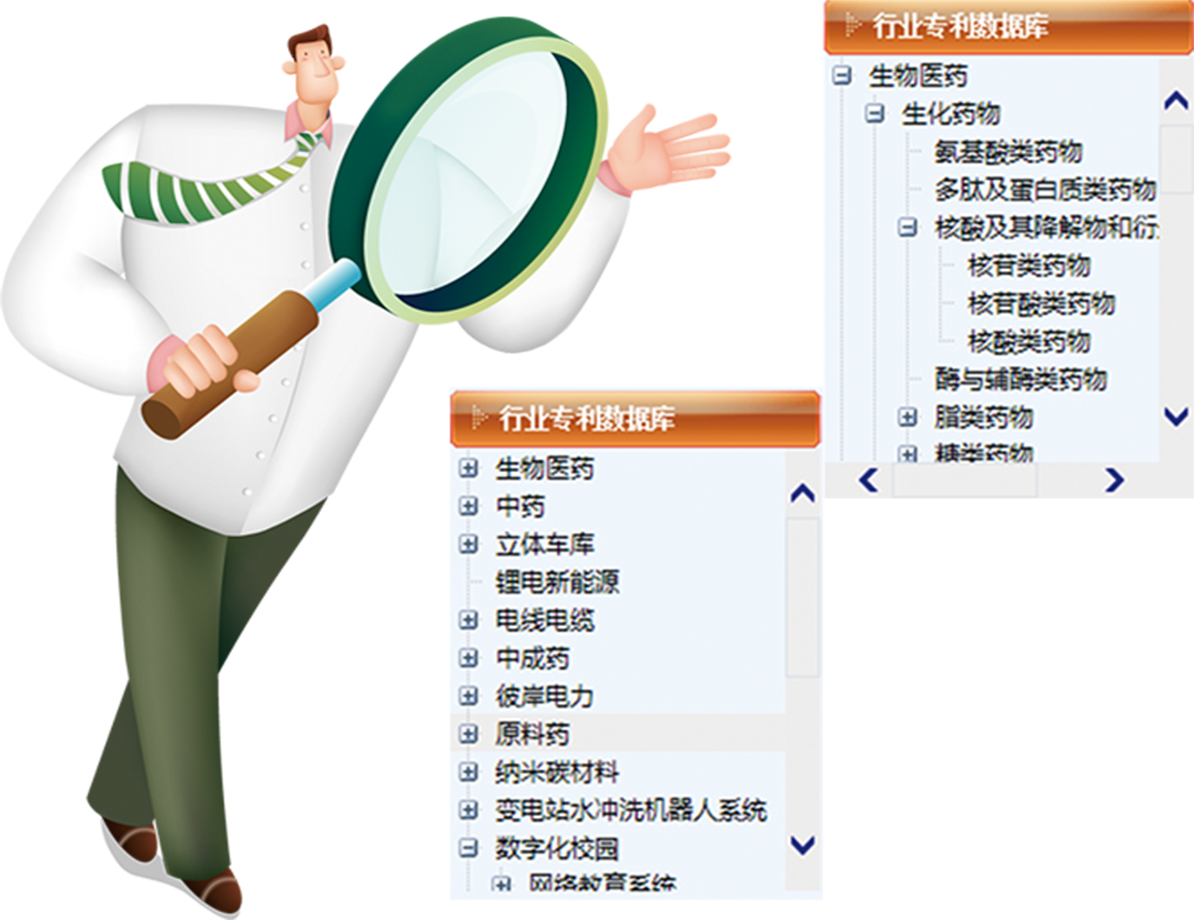
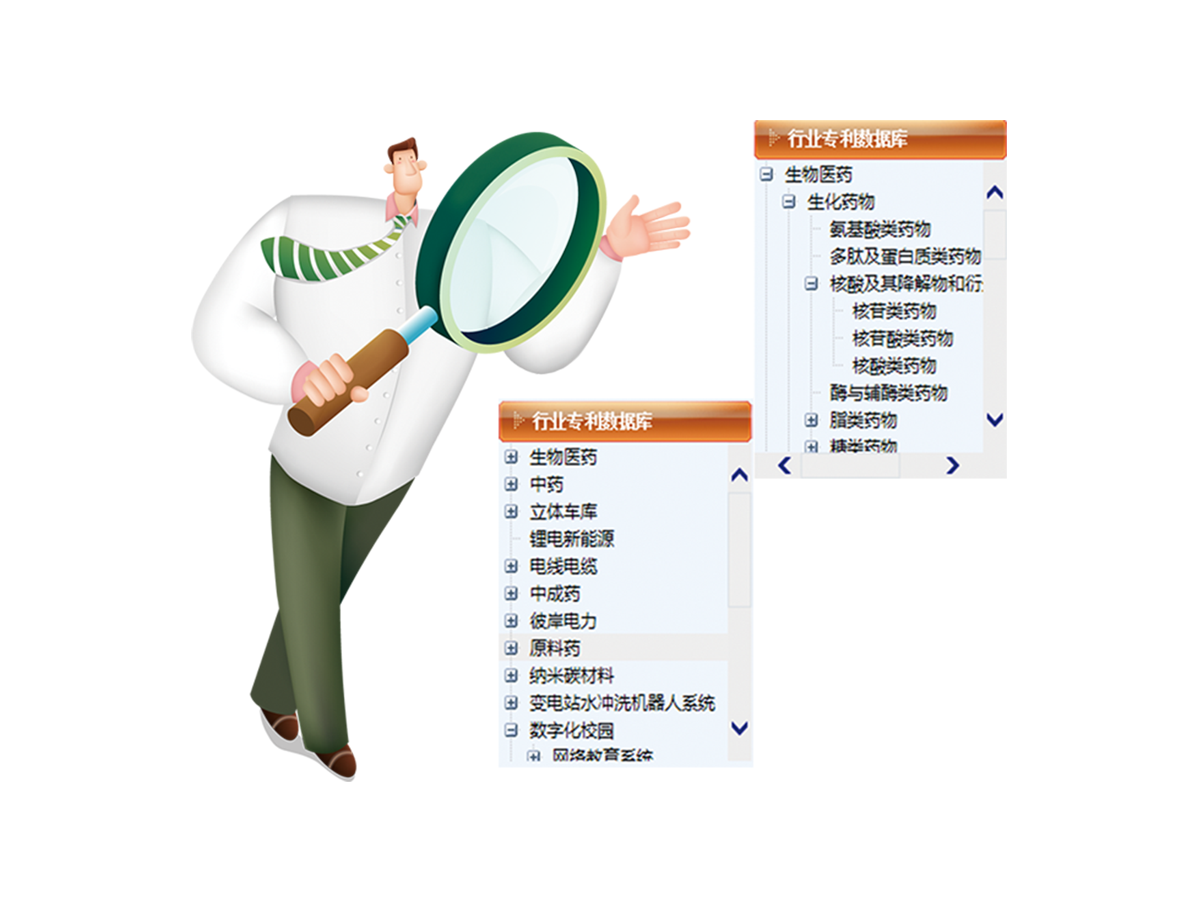
修改图片位置和添加图标

diff --git a/ant-motion-dva-cli-example-2.0/src/routes/Home/Content1.jsx b/ant-motion-dva-cli-example-2.0/src/routes/Home/Content1.jsx
@@ -20,7 +20,9 @@ class Content extends React.Component {
       key={i}
       id={`${this.props.id}-block${i}`}
     >
-      
+    <span>
+        <img src={item.img} width="100%" />
+      </span>
       <h2>{item.title}</h2>
       <p>{item.content}</p>
     </li>);
@@ -30,10 +32,10 @@ class Content extends React.Component {
     const props = { ...this.props };
     const isMode = props.isMode;
     const dataSource = [
-      { img: '', title: '委托方式', content: '当面受理、网上受理、传真受理、委托受理等。' },
-      { img: '', title: '成果鉴定', content: '为科技工作者、大专院校、企业及个人提供结题的查新检索。' },
-      { img: '', title: '科技（专利）奖项评审检索', content: ' 根据《专利奖项评价指标》及《科技奖项评价指标》，针对奖项的具体要求出具检索分析报告。' },
-      { img: '', title: '科技计划，立项查新', content: ' 国家863计划、973计划、科技攻关计划、软科学计划、火炬计划、国际合作计划、重点新产品计划、中小企业创新基金等各级政府部门立项项目。' },
+      { img: 'https://zos.alipayobjects.com/rmsportal/ScHBSdwpTkAHZkJ.png', title: '委托方式', content: '当面受理、网上受理、传真受理、委托受理等。' },
+      { img: 'https://zos.alipayobjects.com/rmsportal/UsUmoBRyLvkIQeO.png', title: '成果鉴定', content: '为科技工作者、大专院校、企业及个人提供结题的查新检索。' },
+      { img: 'https://zos.alipayobjects.com/rmsportal/ipwaQLBLflRfUrg.png', title: '科技（专利）奖项评审检索', content: ' 根据《专利奖项评价指标》及《科技奖项评价指标》，针对奖项的具体要求出具检索分析报告。' },
+      { img: 'https://zos.alipayobjects.com/rmsportal/YPMsLQuCEXtuEkmXTTdk.png', title: '科技计划，立项查新', content: ' 国家863计划、973计划、科技攻关计划、软科学计划、火炬计划、国际合作计划、重点新产品计划、中小企业创新基金等各级政府部门立项项目。' },
     ];
     const ulChildren = dataSource.map(this.getBlockChildren);
     delete props.isMode;
@@ -56,6 +58,7 @@ class Content extends React.Component {
           >
            <h1
               key="h1"
+              
               id={`${props.id}-title`}
             >
               专利检索、科技查新

diff --git a/ant-motion-dva-cli-example-2.0/src/routes/Home/index.jsx b/ant-motion-dva-cli-example-2.0/src/routes/Home/index.jsx
@@ -45,9 +45,9 @@ export default class Home extends React.Component {
     const children = [
       <Nav id="nav_0_0" key="nav_0_0" isMode={this.state.isMode}/>,
       <Content0 id="content_10_0" key="content_10_0" isMode={this.state.isMode}/>,
-      <Content1 id="content_8_0" key="content_8_0" isMode={this.state.isMode}/>,
       <Content2 id="content_2_0" key="content_2_0" isMode={this.state.isMode}/>,
       <Content3 id="content_3_0" key="content_3_0" isMode={this.state.isMode}/>,
+      <Content1 id="content_8_0" key="content_8_0" isMode={this.state.isMode}/>,
       <Content4 id="content_7_0" key="content_7_0" isMode={this.state.isMode}/>,
       <Footer id="footer_0_0" key="footer_0_0" isMode={this.state.isMode}/>,
     ];

diff --git a/ant-motion-dva-cli-example-2.0/src/routes/Home/less/content2.less b/ant-motion-dva-cli-example-2.0/src/routes/Home/less/content2.less
@@ -5,15 +5,15 @@
 .@{content0} {
   &-img {
     height: 100%;
-    width: 70%;
+    width: 40%;
     overflow: hidden;
     position: absolute;
     left: 0;
     span {
       display: inline-block;
       position: absolute;
-      width: 40%;
-      right: 50%;
+      width: 55%;
+      right: 10%;
       line-height: 50vh;
       height: 50vh;
       margin: auto;

diff --git a/ant-motion-dva-cli-example-2.0/src/routes/Home/less/content3.less b/ant-motion-dva-cli-example-2.0/src/routes/Home/less/content3.less
@@ -5,7 +5,7 @@
 .@{content1} {
   &-img {
     height: 100%;
-    width: 70%;
+    width: 40%;
     overflow: hidden;
     position: absolute;
     right: 0;
@@ -13,7 +13,7 @@
       display: block;
       position: absolute;
       width: 55%;
-      left: 40%;
+      left: 10%;
       line-height: 50vh;
       height: 50vh;
       margin: auto;

diff --git a/ant-motion-dva-cli-example-2.0/src/routes/Home/less/content4.less b/ant-motion-dva-cli-example-2.0/src/routes/Home/less/content4.less
@@ -42,12 +42,12 @@
     }
   }
   &-img {
-    width: 40%;
+    width: 50%;
     display: inline-block;
     position: relative;
     float: right;
-    top: 25%;
-    right: 10%;
+    top: 15%;
+    right: 5%;
   }
 }
 

diff --git a/ant-motion-dva-cli-example-2.0/src/routes/Home/less/content1.less b/ant-motion-dva-cli-example-2.0/src/routes/Home/less/content1.less
@@ -14,7 +14,7 @@
     }
     & > h1 {
       position: relative;
-      margin-left: 11%;
+      //margin-left: 20px;
     }
     & > p {
       position: relative;
